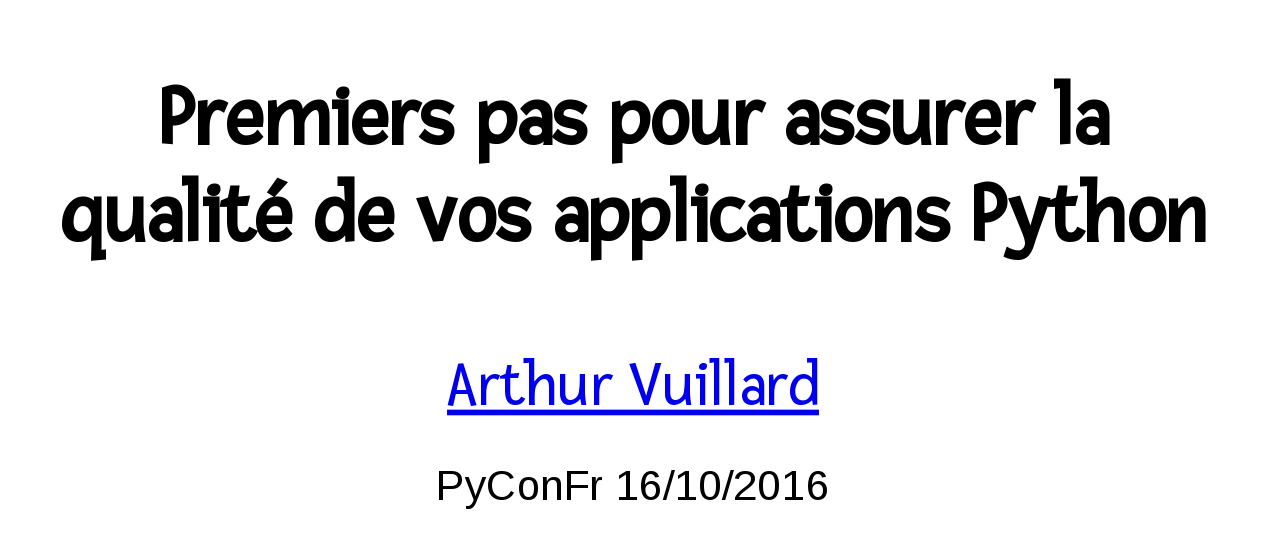
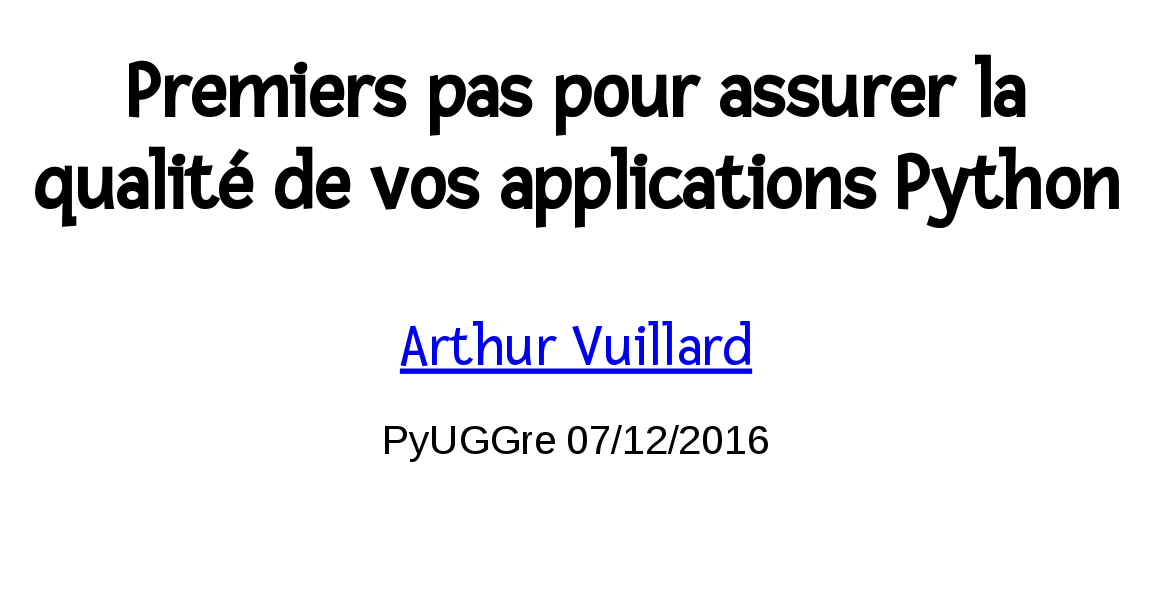
Updated to correct images for ArthurV presn

Changed region(s): [[0.0312, 0.0921, 0.9671, 0.491], [0.312, 0.5217, 0.6863, 0.7671], [0.3432, 0.8285, 0.6551, 0.9206]]

diff --git a/SITE_TEMPLATES/op.html b/SITE_TEMPLATES/op.html
@@ -84,10 +84,10 @@
               <li class="nav-header">Meetups a venir</li>
               <li><a href="#Contributions">Contributions</a></li>
               
-                 <li><a href="#2016-Dec">7 Dec 2016</a></li>
-              
 
               <li class="nav-header">Archives</li>
+              
+                 <li><a href="#2016-Dec">7 Dec 2016</a></li>
               
                  <li><a href="#2016-May">24 May 2016</a></li>
               
@@ -193,26 +193,32 @@
 
           <div class="row-fluid">
     
-            <font color=#0000bb> </font> <!-- HACK -->
-            <a name="2016-Dec" /> <br/> <div class="span4">
-              <h2>7 Dec 2016</h2>
-         <br/>Inscrivez-vous sur Meetup <a href="http://www.meetup.com/Groupe-dutilisateurs-Python-Grenoble/events/235131045/"> <font color=#00bbbb> ici </font> </a>
-         <p/>
-      
-        <b> Arthur Vuillard:<br/> "Premiers pas pour assurer la qualite de vos applications" </b>
-             <br/>
-                <div class="slides"> <img src="images/2016/2016-Dec_ArthurV_Qualite.png" > </div>
-            
-       <p>
-      
-
-	    </div> <!--/span-->
-    
     </div> <!--/row-->
 
           <hr/> <!-- ========================================================= -->
           <h1>Archives des Reunions Pass&eacute;es</h1> <div class="row-fluid">
 
+    
+            <font color=#0000bb> </font> <!-- HACK -->
+            <a name="2016-Dec" /> <br/> <div class="span4">
+              <h2>7 Dec 2016</h2>
+         <br/>Lien sur l'Evenement Meetup <a href="http://www.meetup.com/Groupe-dutilisateurs-Python-Grenoble/events/235131045/"> <font color=#00bbbb> ici </font> </a>
+        <br/>
+
+    
+        <b> Arthur Vuillard:<br/> "Premiers pas pour assurer la qualite de vos applications" </b>
+        
+         <br/> les slides:
+          <a href="https://static.hashbang.fr/20161207_qualit%C3%A9/#1"> <font color=#00bbbb> ici </font>
+            <div class="slides"> <img src="images/2016/2016-Dec_ArthurV_Qualite.png" > </div>
+          </a>
+       </b>
+        
+       <p>
+        
+      
+        
+            </div><!--/span-->
     
             <font color=#0000bb> </font> <!-- HACK -->
             <a name="2016-May" /> <br/> <div class="span4">
